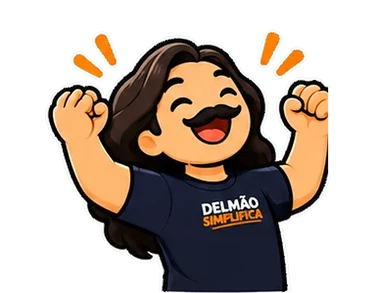
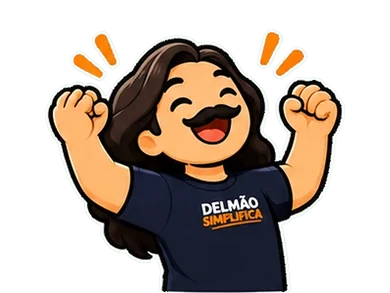
Entenda o erro: passo a passo e flashcards do assunto ao errar
- Ao errar, botão COMO RESOLVER abre "Entenda o erro": você marcou x resposta certa,
  passo a passo (campo resolucao) e flashcards do mesmo tópico, que entram na Revisão do dia
- Fim da lição e "sem vidas" ganham REVER O QUE ERREI
- Desafio da aula usa só as questões de prova (não repete as lições); lições preferem perguntas inéditas
- Tela final não corta mais o topo em telas baixas; balão da trilha fica na frente da faixa da aula seguinte
- Delmão comemorando com o punho direito inteiro (recorte original estava estreito)

Changed region(s): [[0.117, 0.0922, 0.8777, 1.0], [0.3511, 0.7679, 0.4096, 0.7986]]

diff --git a/trilha.js b/trilha.js
@@ -29,14 +29,19 @@ function nosDa(A) {
     { tipo: 'bau', nome: 'Baú da aula' }
   ];
 }
+// o que o aluno já respondeu nas lições: id → 1 (acertou de primeira) ou 0 (errou). Evita repetir pergunta entre fases.
+const visto = id => (P.vistos ||= {})[id];
+function marcarVisto(id, ok) { (P.vistos ||= {})[id] = ok ? 1 : 0; }
+// ordem de preferência: nunca vista → errada antes → já acertada
+const jaViu = x => visto(x.id) === undefined ? 0 : visto(x.id) === 0 ? 1 : 2;
 function exerciciosDaLicao(A, grupo) {
   const lim = Math.max(3, Math.ceil(POR_LICAO / grupo.length));
   const ex = [];
   for (const t of grupo) {
-    // só perguntas que o app corrige sozinho (os flashcards ficam na aba Cards); as que têm figura vêm primeiro
-    const comFig = x => x.figura ? 0 : 1;
-    const qs = embaralhar(A.quiz.filter(q => q.topico === t)).sort((a, b) => comFig(a) - comFig(b));
-    const vs = embaralhar(A.vf.filter(v => v.topico === t)).sort((a, b) => comFig(a) - comFig(b));
+    // só perguntas que o app corrige sozinho (os flashcards ficam na aba Cards); inéditas primeiro, e entre elas as com figura
+    const ordem = (a, b) => jaViu(a) - jaViu(b) || (a.figura ? 0 : 1) - (b.figura ? 0 : 1);
+    const qs = embaralhar(A.quiz.filter(q => q.topico === t)).sort(ordem);
+    const vs = embaralhar(A.vf.filter(v => v.topico === t)).sort(ordem);
     const pool = [];
     while (qs.length || vs.length) {
       if (vs.length) pool.push({ tipo: 'vf', item: vs.shift() });
@@ -47,9 +52,9 @@ function exerciciosDaLicao(A, grupo) {
   return ex.slice(0, POR_LICAO);
 }
 function exerciciosDoDesafio(A) {
-  const qs = (A.questoes || []).map(q => ({ tipo: 'questao', item: q }));
-  const extra = embaralhar(A.quiz).slice(0, Math.max(0, 8 - qs.length)).map(q => ({ tipo: 'quiz', item: q }));
-  return embaralhar([...qs, ...extra]);
+  // só as questões de prova da aula: elas nunca aparecem nas lições, então o desafio não repete nada
+  // (o quiz e o V/F ficam só nas lições; o que o aluno errar ali volta na própria lição e na Revisão do dia)
+  return embaralhar((A.questoes || []).map(q => ({ tipo: 'questao', item: q })));
 }
 
 // ---------- progresso na trilha ----------
@@ -238,10 +243,74 @@ async function telaCards() {
   });
 }
 
+// ---------- "Entenda o erro": passo a passo + flashcards do assunto ----------
+// Usa a "resolucao" da questão quando existe; senão quebra a "explicacao" em passos (uma frase por passo).
+function passosDe(it) {
+  const txt = String(it.resolucao || it.explicacao || '').trim();
+  if (!txt) return [];
+  return txt.split(/<br\s*\/?>|\n|(?<=[.!?])\s+(?=[A-ZÁÉÍÓÚÂÊÔÃÕÇ])/).map(s => s.trim()).filter(Boolean);
+}
+// flashcards da mesma aula e do mesmo tópico da pergunta errada
+function cardsDoAssunto(it) {
+  const A = AULAS[aulaDoItem(it.id)];
+  return A ? (A.cards || []).filter(c => c.topico === it.topico) : [];
+}
+// errou: os cards do assunto entram na Revisão do dia (sem apagar o que o aluno já sabia)
+function mandarParaRevisao(cards) {
+  for (const c of cards) {
+    const x = P.itens[c.id] || { c: 0, p: 0, v: 0, e: 0 };
+    x.p = Math.min(x.p || Date.now(), Date.now());
+    P.itens[c.id] = x;
+  }
+  salvar();
+}
+// erros = [{ e, marcou }]; abre a tela por cima da lição e chama aoFechar quando o aluno termina
+function abrirExplicacao(erros, aoFechar) {
+  let i = 0;
+  const caixa = document.createElement('div');
+  caixa.className = 'explica';
+  document.body.appendChild(caixa);
+  document.body.style.overflow = 'hidden';
+  function fechar() { caixa.remove(); document.body.style.overflow = ''; aoFechar && aoFechar(); }
+  function desenhar() {
+    const { e, marcou } = erros[i], it = e.item;
+    const perg = e.tipo === 'vf' ? it.afirmacao : it.enunciado;
+    const certa = e.tipo === 'vf' ? (it.verdadeira ? 'Verdade' : 'Mentira') : it.alternativas[it.correta];
+    const passos = passosDe(it), cards = cardsDoAssunto(it).slice(0, 6), ultimo = i === erros.length - 1;
+    caixa.innerHTML = `<div class="ex-dentro">
+      <div class="ex-top">
+        <span class="ex-tit">${ic('livro')} ENTENDA O ERRO${erros.length > 1 ? ` · ${i + 1} de ${erros.length}` : ''}</span>
+        <button class="fechar" data-x aria-label="Fechar">${ic('fechar')}</button>
+      </div>
+      <div class="ex-masc"><img src="mascote/explicando.webp" alt=""><span class="fala">BORA ENTENDER?</span></div>
+      <div class="ex-perg">${e.tipo === 'vf' ? '<small>A frase era:</small>' : ''}${perg}</div>
+      ${figuraDe(it)}
+      <div class="ex-resp">
+        ${marcou != null ? `<div class="r-voce">${ic('xis')}<span><small>Você marcou</small>${marcou}</span></div>` : ''}
+        <div class="r-certa">${ic('certo')}<span><small>Resposta certa</small>${certa}</span></div>
+      </div>
+      ${passos.length ? `<h3 class="ex-h">Como resolver</h3>
+      <ol class="ex-passos">${passos.map(p => `<li>${p}</li>`).join('')}</ol>` : ''}
+      ${cards.length ? `<h3 class="ex-h">Relembre o assunto <span>${esc(it.topico)}</span></h3>
+      <p class="ex-sub">Toque no card para virar. Eles também entraram na sua <b>Revisão do dia</b>.</p>
+      <div class="ex-cards">${cards.map((c, k) => `<button class="ex-card" data-card="${k}">
+        <span class="fr"><span>${c.frente}</span>${figuraDe(c)}<small>toque para virar</small></span>
+        <span class="vs">${c.verso}</span></button>`).join('')}</div>` : ''}
+      <div class="ex-rod"><button class="btn3d verde" data-ok>${ultimo ? 'ENTENDI!' : 'PRÓXIMO ERRO'}</button></div>
+    </div>`;
+    caixa.scrollTop = 0;
+    caixa.querySelector('[data-x]').onclick = fechar;
+    caixa.querySelector('[data-ok]').onclick = () => ultimo ? fechar() : (i++, desenhar());
+    caixa.querySelectorAll('.ex-card').forEach(b => b.onclick = () => b.classList.toggle('virado'));
+    caixa.querySelector('[data-ok]').focus({ preventScroll: true });
+  }
+  desenhar();
+}
+
 // ---------- a lição ----------
 function jogarLicao(exercicios, { titulo, aoTerminar, bonus = 10 }) {
   history.pushState({ t: 'jogo' }, '');
-  const fila = [...exercicios], total = exercicios.length, jaErrou = new Set();
+  const fila = [...exercicios], total = exercicios.length, jaErrou = new Set(), erros = [];
   let feitos = 0, acertosDePrimeira = 0, vidas = VIDAS, seguidas = 0, xp = 0;
   const t0 = Date.now();
 
@@ -284,7 +353,9 @@ function jogarLicao(exercicios, { titulo, aoTerminar, bonus = 10 }) {
     let escolha = null, respondido = false;
 
     const teclas = ev => {
-      if (ev.key === 'Enter') { const b = raiz.querySelector('.rod-bts button:not([disabled])'); if (b) { ev.preventDefault(); b.click(); } return; }
+      const aberta = document.querySelector('.explica');
+      if (aberta) { if (ev.key === 'Escape') aberta.querySelector('[data-x]').click(); return; }   // "Entenda o erro" aberto: Enter fica com o botão dele
+      if (ev.key === 'Enter') { const b = raiz.querySelector('#cont') || raiz.querySelector('.rod-bts button:not([disabled])'); if (b) { ev.preventDefault(); b.click(); } return; }
       const n = +ev.key; if (!respondido && n >= 1 && n <= 4) raiz.querySelectorAll('.opc')[n - 1]?.click();
     };
     document.addEventListener('keydown', teclas);
@@ -322,6 +393,7 @@ function jogarLicao(exercicios, { titulo, aoTerminar, bonus = 10 }) {
         registrar(it, e.tipo === 'card' ? 'card' : e.tipo, ok, performance.now() - tq);
         if (e.tipo === 'card') atualizarCaixa(it.id, ok);
         if (e.tipo === 'questao') { P.q ||= {}; P.q[it.id] = { ok, n: (P.q[it.id]?.n || 0) + 1 }; }
+        if (e.tipo === 'quiz' || e.tipo === 'vf') marcarVisto(it.id, ok);
       }
       if (ok) { if (primeira) acertosDePrimeira++; feitos++; seguidas++; xp += primeira ? 2 : 1; som('ok'); }
       else {
@@ -351,23 +423,35 @@ function jogarLicao(exercicios, { titulo, aoTerminar, bonus = 10 }) {
         <div><b>${ok ? elogios[Math.floor(Math.random() * elogios.length)] : 'Resposta certa:'}</b>
         ${ok ? '' : `<div class="certa-txt">${certaTxt}</div>`}
         <div class="explic-txt">${explic || ''}</div></div>`;
-      document.getElementById('bts').innerHTML = `<button class="btn3d ${ok ? 'verde' : 'vermelho'}" id="cont">CONTINUAR</button>`;
+      let erro = null;
+      if (!ok) {
+        const marcou = e.tipo === 'vf' ? (escolha === 1 ? 'Verdade' : 'Mentira') : it.alternativas[escolha];
+        erro = { e, marcou };
+        if (!erros.some(x => x.e.item.id === it.id)) erros.push(erro);
+        mandarParaRevisao(cardsDoAssunto(it));
+      }
+      document.getElementById('bts').innerHTML = (ok ? '' : `<button class="btn3d branco bt-entender" id="entender">${ic('livro')} COMO RESOLVER</button>`)
+        + `<button class="btn3d ${ok ? 'verde' : 'vermelho'}" id="cont">CONTINUAR</button>`;
       document.getElementById('cont').onclick = () => vidas <= 0 ? semVidas() : mostrar();
+      if (!ok) document.getElementById('entender').onclick = () => abrirExplicacao([erro], () => document.getElementById('cont')?.focus({ preventScroll: true }));
       document.getElementById('cont').focus({ preventScroll: true });
     }
   }
 
   function semVidas() {
     pararJogo(); pararJogo = () => {};
+    salvar();                                     // guarda o que ele já viu, mesmo sem terminar
     tela(`<main class="lic-fim">
       ${typeof mascoteAnim === 'function' ? mascoteAnim('frustrado') : '<img src="mascote/frustrado.webp" alt="">'}
       <h1>Acabaram <span>as vidas</span></h1>
       <p>Respira, relê a explicação e tenta de novo. Errar aqui é acertar na prova!</p>
       <div class="botoes2">
+        ${erros.length ? `<button class="btn3d branco bt-entender" id="rever">${ic('livro')} REVER O QUE ERREI (${erros.length})</button>` : ''}
         <button class="btn3d" id="denovo">TENTAR DE NOVO</button>
         <button class="btn3d branco" id="volta">VOLTAR PARA A TRILHA</button>
       </div>
     </main>`);
+    if (erros.length) document.getElementById('rever').onclick = () => abrirExplicacao(erros);
     document.getElementById('denovo').onclick = () => jogarLicao(exercicios, { titulo, aoTerminar, bonus });
     document.getElementById('volta').onclick = telaInicio;
   }
@@ -388,8 +472,12 @@ function jogarLicao(exercicios, { titulo, aoTerminar, bonus = 10 }) {
         <div class="cx cx-prec"><small>${pct >= 90 ? 'MANDOU BEM' : 'PRECISÃO'}</small><b>${ic('alvo')} ${pct}%</b></div>
         <div class="cx cx-tempo"><small>TEMPO</small><b>${ic('relogio')} ${Math.floor(seg / 60)}:${String(seg % 60).padStart(2, '0')}</b></div>
       </div>
-      <button class="btn3d verde" id="cont">CONTINUAR</button>
+      <div class="botoes2">
+        ${erros.length ? `<button class="btn3d branco bt-entender" id="rever">${ic('livro')} REVER O QUE ERREI (${erros.length})</button>` : ''}
+        <button class="btn3d verde" id="cont">CONTINUAR</button>
+      </div>
     </main>`);
+    if (erros.length) document.getElementById('rever').onclick = () => abrirExplicacao(erros);
     contarAte(document.getElementById('xpfim'), ganho);
     if (pct >= 70) confete();
     document.getElementById('cont').onclick = telaInicio;
@@ -397,5 +485,8 @@ function jogarLicao(exercicios, { titulo, aoTerminar, bonus = 10 }) {
 
   mostrar();
 }
+
+// voltar do navegador com o "Entenda o erro" aberto: some com ele
+window.addEventListener('popstate', () => { document.querySelector('.explica')?.remove(); document.body.style.overflow = ''; });
 
 iniciar();

diff --git a/trilha.css b/trilha.css
@@ -54,6 +54,9 @@ main.trilha{padding:8px 16px calc(110px + env(safe-area-inset-bottom));max-width
 @media (max-width:420px){.masc-trilha{width:96px;transform:translateX(calc(-50% + var(--lado) * 118px))}}
 
 .linha:has(.popover){z-index:40}
+/* cada aula entra animada e vira uma camada própria: a aula com o balão aberto sobe para a frente das outras */
+.unidade{position:relative}
+.unidade:has(.popover){z-index:15}
 .popover{position:absolute;top:84px;left:50%;margin-left:-140px;transform:translateX(calc(var(--x) * -1));z-index:15;width:280px;background:var(--c);color:#fff;border-radius:16px;padding:14px 16px;
   box-shadow:0 4px 0 var(--c2),0 10px 24px #0F1B2D33;text-align:left;animation:aparece .15s ease-out}
 @keyframes aparece{from{opacity:0}}
@@ -141,8 +144,10 @@ main.trilha{padding:8px 16px calc(110px + env(safe-area-inset-bottom));max-width
 }
 
 /* fim da lição */
-.lic-fim{min-height:100vh;display:flex;flex-direction:column;align-items:center;justify-content:center;text-align:center;padding:24px 16px;max-width:520px;margin:0 auto}
-.lic-fim img{width:180px;animation:surge .4s ease-out}
+.lic-fim{min-height:100vh;min-height:100dvh;box-sizing:border-box;display:flex;flex-direction:column;align-items:center;justify-content:flex-start;text-align:center;padding:24px 16px;max-width:520px;margin:0 auto}
+/* centraliza na altura, mas se não couber começa do topo e rola (nada some para cima da tela) */
+.lic-fim>:first-child{margin-top:auto}.lic-fim>:last-child{margin-bottom:auto}
+.lic-fim img{width:180px;max-height:34vh;object-fit:contain;animation:surge .4s ease-out}
 .lic-fim h1{font-size:36px;margin-top:10px}
 .caixas{display:grid;grid-template-columns:repeat(3,1fr);gap:10px;width:100%;margin:18px 0 24px}
 .cx{border-radius:16px;border:2px solid var(--c);overflow:hidden;--c:var(--lar)}
@@ -213,3 +218,45 @@ main.trilha{padding:8px 16px calc(110px + env(safe-area-inset-bottom));max-width
 .stat b .icn{font-size:24px}
 .errei .icn,.acertei .icn{font-size:16px;vertical-align:-.15em}
 header button .icn{font-size:22px;vertical-align:-.2em}
+
+/* "Entenda o erro": passo a passo + flashcards do assunto, por cima da lição */
+.btn3d.bt-entender{display:flex;align-items:center;justify-content:center;gap:8px;color:var(--navy)}
+.btn3d.bt-entender .icn{width:20px;height:20px}
+.lic-rod.r-no .rod-bts{flex-wrap:wrap}
+.explica{position:fixed;inset:0;z-index:60;background:#fff;overflow-y:auto;animation:sobe-ex .25s ease-out}
+@keyframes sobe-ex{from{transform:translateY(40px);opacity:0}}
+.ex-dentro{max-width:620px;margin:0 auto;padding:calc(12px + env(safe-area-inset-top)) 16px 120px}
+.ex-top{display:flex;align-items:center;justify-content:space-between;gap:10px;margin-bottom:6px}
+.ex-tit{display:flex;align-items:center;gap:6px;font:800 13px 'Open Sans';letter-spacing:1px;color:var(--lar)}
+.ex-tit .icn{width:18px;height:18px}
+.ex-masc{display:flex;align-items:flex-end;gap:10px;margin:2px 0 10px}
+.ex-masc img{width:86px}
+.ex-masc .fala{font-size:22px;margin-bottom:18px}
+.ex-perg{font-size:19px;font-weight:700;background:var(--creme);border-radius:16px;padding:14px 16px}
+.ex-perg small{display:block;font-size:12px;font-weight:800;letter-spacing:.8px;color:#8A8F99;text-transform:uppercase;margin-bottom:2px}
+.ex-resp{display:grid;gap:8px;margin:12px 0 4px}
+.ex-resp>div{display:flex;align-items:center;gap:10px;border-radius:14px;padding:10px 14px;font-weight:700;font-size:17px;border:2px solid}
+.ex-resp small{display:block;font-size:12px;font-weight:800;letter-spacing:.6px;text-transform:uppercase;opacity:.8}
+.ex-resp .icn{width:22px;height:22px;flex:none}
+.r-voce{background:#FDE7E4;border-color:#F1A79F !important;color:var(--verm2)}
+.r-certa{background:#E3F6EA;border-color:#7ED3A0 !important;color:var(--verde2)}
+.ex-h{font:24px 'Anton',Impact,sans-serif;text-transform:uppercase;margin:22px 0 8px;line-height:1.15}
+.ex-h span{display:block;color:var(--lar);font-size:18px}
+.ex-passos{list-style:none;counter-reset:passo;padding:0;margin:0;display:grid;gap:10px}
+.ex-passos li{counter-increment:passo;position:relative;padding:12px 14px 12px 52px;background:var(--azul);border-radius:14px;font-size:17px;animation:surge .3s ease-out both}
+.ex-passos li::before{content:counter(passo);position:absolute;left:12px;top:10px;width:28px;height:28px;border-radius:50%;background:var(--navy);color:#fff;font:16px/28px 'Anton',Impact,sans-serif;text-align:center}
+.ex-passos li:nth-child(2){animation-delay:.08s}.ex-passos li:nth-child(3){animation-delay:.16s}.ex-passos li:nth-child(n+4){animation-delay:.24s}
+.ex-sub{margin:0 0 10px;color:#556;font-size:14px}
+.ex-cards{display:flex;gap:12px;overflow-x:auto;scroll-snap-type:x mandatory;padding:4px 2px 12px;margin:0 -16px;padding-left:16px;padding-right:16px}
+.ex-card{flex:0 0 78%;max-width:340px;min-height:190px;scroll-snap-align:center;border:0;border-radius:20px;padding:0;background:none;cursor:pointer;position:relative;font:inherit;color:inherit;text-align:center}
+.ex-card .fr,.ex-card .vs{position:absolute;inset:0;border-radius:20px;padding:18px 16px;display:flex;flex-direction:column;justify-content:center;align-items:center;gap:6px;transition:opacity .2s,transform .3s}
+.ex-card .fr{background:#fff;border:2px solid var(--borda);box-shadow:0 4px 0 var(--borda);font-size:19px;font-weight:700}
+.ex-card .fr small{font-size:12px;font-weight:400;color:#889}
+.ex-card .vs{background:var(--navy);color:#fff;font-size:17px;opacity:0;transform:rotateY(90deg)}
+.ex-card .vs b{color:var(--lar)}
+.ex-card.virado .fr{opacity:0;transform:rotateY(-90deg)}
+.ex-card.virado .vs{opacity:1;transform:none}
+.ex-card .figura{max-height:90px;overflow:hidden}
+.ex-rod{position:fixed;left:0;right:0;bottom:0;background:#fff;border-top:2px solid #E5E5E5;padding:14px 16px calc(14px + env(safe-area-inset-bottom))}
+.ex-rod .btn3d{max-width:588px;margin:0 auto}
+@media (prefers-reduced-motion:reduce){.explica,.ex-passos li{animation:none}.ex-card .fr,.ex-card .vs{transition:none}}

diff --git a/index.html b/index.html
@@ -10,8 +10,8 @@
 <link rel="apple-touch-icon" href="icone-192.png">
 <meta name="apple-mobile-web-app-capable" content="yes">
 <link rel="stylesheet" href="estilo.css?v=20261120e">
-<link rel="stylesheet" href="trilha.css?v=20261120e">
-<link rel="stylesheet" href="animacoes.css?v=20261120e">
+<link rel="stylesheet" href="trilha.css?v=20261120g">
+<link rel="stylesheet" href="animacoes.css?v=20261120g">
 </head>
 <body>
 <div id="raiz"></div>
@@ -24,6 +24,6 @@
 <script src="icones.js?v=20261120e"></script>
 <script src="animacoes.js?v=20261120e"></script>
 <script src="app.js?v=20261120e"></script>
-<script src="trilha.js?v=20261120e"></script>
+<script src="trilha.js?v=20261120g"></script>
 </body>
 </html>

diff --git a/animacoes.css b/animacoes.css
@@ -51,7 +51,7 @@
 .lic-fim h1,.lic-fim .fala{animation:sobe .4s ease-out .25s both}
 .caixas .cx{animation:pop .45s cubic-bezier(.3,1.6,.5,1) both}
 .caixas .cx:nth-child(1){animation-delay:.45s}.caixas .cx:nth-child(2){animation-delay:.6s}.caixas .cx:nth-child(3){animation-delay:.75s}
-.lic-fim > .btn3d{animation:sobe .4s ease-out .9s both}
+.lic-fim > .btn3d,.lic-fim > .botoes2{animation:sobe .4s ease-out .9s both}
 @keyframes sobe{from{opacity:0;translate:0 18px}to{opacity:1;translate:0 0}}
 
 /* confete */
